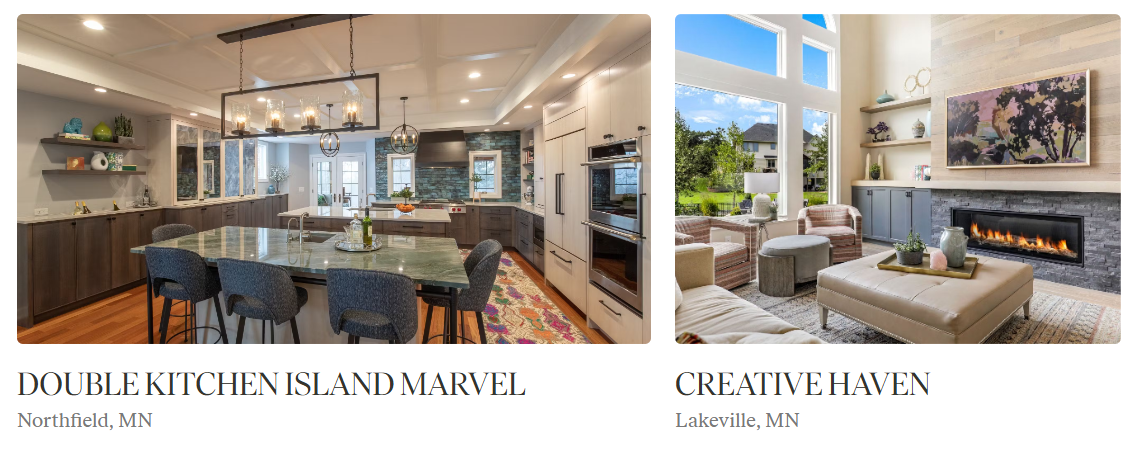
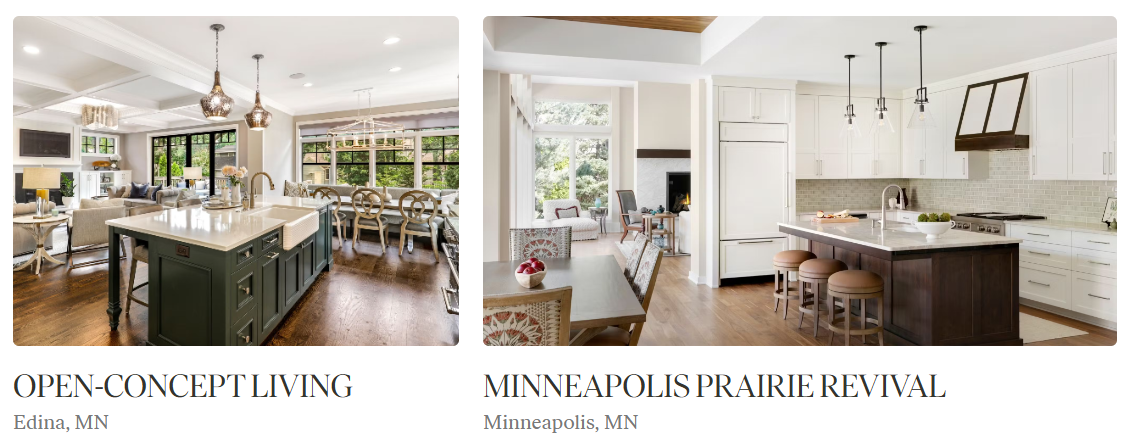
updated layout / style for displaying featured projects

diff --git a/src/slices/Projects/FeaturedProjectsRow/index.tsx b/src/slices/Projects/FeaturedProjectsRow/index.tsx
@@ -5,6 +5,7 @@ import { Content, isFilled, asText } from "@prismicio/client";
 import { SliceComponentProps } from "@prismicio/react";
 import { createClient } from "@/prismicio";
 import { PrismicNextLink } from "@prismicio/next";
+import { PrismicNextImage } from "@prismicio/next";
 
 /**
  * Props for `FeaturedProjects`.
@@ -36,12 +37,15 @@ const FeaturedProjects: FC<FeaturedProjectsProps> = ({ slice }) => {
             const client = createClient();
             const newData: typeof projectData = {};
 
+
             if (isRatio115Slice(slice)) {
+                console.log(slice.primary)
                 if (isFilled.contentRelationship(slice.primary.project_one)) {
                     try {
                         newData.one = await client.getByID(slice.primary.project_one.id) as Content.FeaturedProjectDocument;
+                        console.log(newData.one)
                     } catch (error) {
-                        console.error("Fetch project_one (ratio115) failed:", error);
+                        console.error("Fetch project_onw (ratio115) failed:", error);
                     }
                 }
                 if (isFilled.contentRelationship(slice.primary.project_two)) {
@@ -67,7 +71,6 @@ const FeaturedProjects: FC<FeaturedProjectsProps> = ({ slice }) => {
                     }
                 }
             }
-
             setProjectData(newData);
         };
 
@@ -78,28 +81,49 @@ const FeaturedProjects: FC<FeaturedProjectsProps> = ({ slice }) => {
 
     const renderProjectLinkContent = (projectDoc: Content.FeaturedProjectDocument | undefined) => {
         if (!projectDoc) return null;
-        if (isFilled.richText(projectDoc.data.project_title)) {
-            return asText(projectDoc.data.project_title);
-        }
-        return projectDoc.uid || "View Project";
+
+        const title = isFilled.richText(projectDoc.data.project_title)
+            ? asText(projectDoc.data.project_title)
+            : projectDoc.uid || "View Project";
+
+        const location = projectDoc.data.project_location?.[0]?.text;
+        const imageUrl = projectDoc.data.project_image?.url;
+
+        return (
+            <div>
+                {imageUrl && (
+                    <div className="rounded overflow-hidden h-[300px] w-full">
+                        <img
+                            src={imageUrl}
+                            alt={title}
+                            className="w-full h-full object-cover transition-transform duration-300 ease-in-out hover:scale-110"
+                        />
+                    </div>
+                )}
+                <div className="text-2xl lg:text-[32px] text-black-900 uppercase mt-6 mb-2 font-ivar-display">{title}</div>
+                {location && (
+                    <div className="text-[18px] lg:text-xl text-black-500">{location}</div>
+                )}
+            </div>
+        );
     };
 
     return (
         <section
             data-slice-type={slice.slice_type}
             data-slice-variation={slice.variation}
-            className="my-12 px-4 md:px-6 lg:px-8"
+            className="my-12 px-4 md:px-6 lg:px-8 mx-auto w-full max-w-6xl"
         >
-            <div className="space-y-6">
+            <div className="space-y-6 flex gap-6">
                 {isRatio115Slice(slice) && (
                     <>
                         {one && (
-                            <PrismicNextLink document={one} className="text-xl text-blue-600 hover:underline block">
+                            <PrismicNextLink document={one} className="block flex-[2] mb-0">
                                 {renderProjectLinkContent(one)}
                             </PrismicNextLink>
                         )}
                         {two && (
-                            <PrismicNextLink document={two} className="text-xl text-blue-600 hover:underline block">
+                            <PrismicNextLink document={two} className="block flex-[3] mb-0">
                                 {renderProjectLinkContent(two)}
                             </PrismicNextLink>
                         )}
@@ -109,12 +133,12 @@ const FeaturedProjects: FC<FeaturedProjectsProps> = ({ slice }) => {
                 {isRatio151Slice(slice) && (
                     <>
                         {three && (
-                            <PrismicNextLink document={three} className="text-xl text-blue-600 hover:underline block">
+                            <PrismicNextLink document={three} className="block flex-[3] mb-0">
                                 {renderProjectLinkContent(three)}
                             </PrismicNextLink>
                         )}
                         {four && (
-                            <PrismicNextLink document={four} className="text-xl text-blue-600 hover:underline block">
+                            <PrismicNextLink document={four} className="tblock flex-[2] mb-0">
                                 {renderProjectLinkContent(four)}
                             </PrismicNextLink>
                         )}

diff --git a/prismicio-types.d.ts b/prismicio-types.d.ts
@@ -14,6 +14,17 @@ type FeaturedProjectDocumentDataSlicesSlice =
  */
 interface FeaturedProjectDocumentData {
   /**
+   * Featured Project Image field in *Featured Project*
+   *
+   * - **Field Type**: Image
+   * - **Placeholder**: *None*
+   * - **API ID Path**: featured_project.project_image
+   * - **Tab**: Main
+   * - **Documentation**: https://prismic.io/docs/field#image
+   */
+  project_image: prismic.ImageField<never>;
+
+  /**
    * Project Title field in *Featured Project*
    *
    * - **Field Type**: Rich Text
@@ -25,37 +36,33 @@ interface FeaturedProjectDocumentData {
   project_title: prismic.RichTextField;
 
   /**
-   * Location field in *Featured Project*
+   * Project Location field in *Featured Project*
    *
    * - **Field Type**: Rich Text
    * - **Placeholder**: *None*
-   * - **API ID Path**: featured_project.location
+   * - **API ID Path**: featured_project.project_location
    * - **Tab**: Main
    * - **Documentation**: https://prismic.io/docs/field#rich-text-title
    */
-  location: prismic.RichTextField;
+  project_location: prismic.RichTextField;
 
   /**
-   * Tag field in *Featured Project*
+   * Project Filter Tag field in *Featured Project*
    *
-   * - **Field Type**: Text
+   * - **Field Type**: Select
    * - **Placeholder**: *None*
-   * - **API ID Path**: featured_project.tag
+   * - **Default Value**: Kitchen Design
+   * - **API ID Path**: featured_project.project_tag
    * - **Tab**: Main
-   * - **Documentation**: https://prismic.io/docs/field#key-text
+   * - **Documentation**: https://prismic.io/docs/field#select
    */
-  tag: prismic.KeyTextField;
-
-  /**
-   * Featured Image field in *Featured Project*
-   *
-   * - **Field Type**: Image
-   * - **Placeholder**: *None*
-   * - **API ID Path**: featured_project.featured_image
-   * - **Tab**: Main
-   * - **Documentation**: https://prismic.io/docs/field#image
-   */
-  featured_image: prismic.ImageField<never>;
+  project_tag: prismic.SelectField<
+    | "Kitchen Design"
+    | "Remodeling Design"
+    | "New Home Design"
+    | "Interior Design",
+    "filled"
+  >;
 
   /**
    * Slice Zone field in *Featured Project*

diff --git a/src/app/globals.css b/src/app/globals.css
@@ -49,6 +49,10 @@ h1, h2, h3, h4, h5, h6 {
   --tw-border-opacity: 1;
   border-color: rgb(153 101 21 / var(--tw-border-opacity));
 }
+.text-black-500 {
+  --tw-text-opacity: 1;
+  color: rgb(121 121 121 / var(--tw-text-opacity));
+}
 .text-black-700 {
   --tw-text-opacity: 1;
   color: rgb(92 92 86 / var(--tw-text-opacity));
